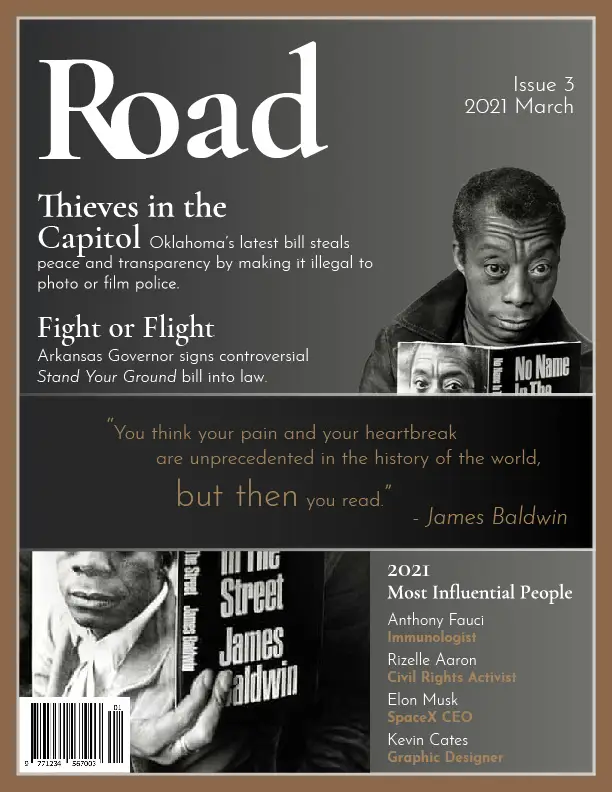
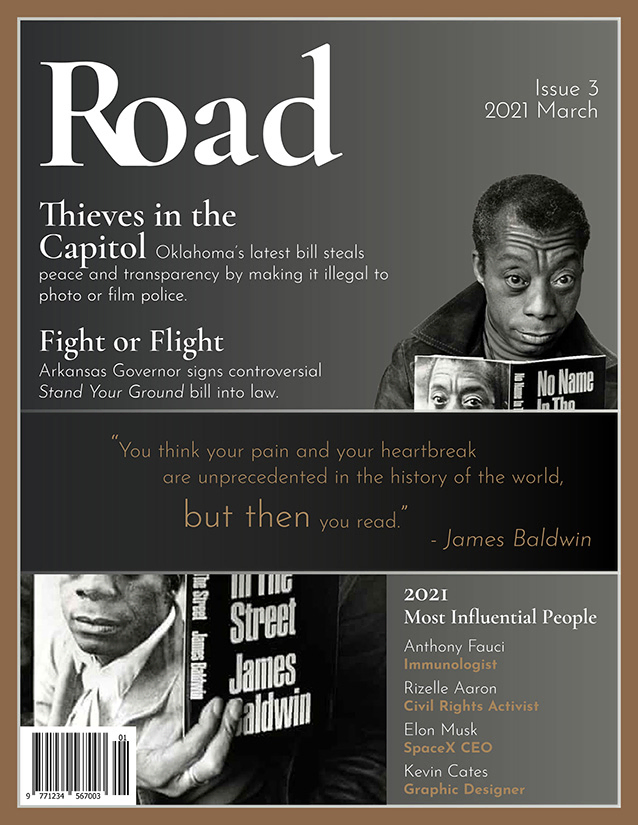
film & typography

diff --git a/film.html b/film.html
@@ -33,22 +33,19 @@
         Josephine Aaron Weathington
         </div>
     </header>
-    <div class="container-fluid">
-
-    </div>
 
     <div class="container film">
-
-      <div class="row feature">
-        <div class="embed-responsive embed-responsive-16by9">
-          <iframe class="embed-responsive-item youtube" src="https://www.youtube.com/embed/4Z8RX-mrl3I" title="YouTube video player" frameborder="0" allow="accelerometer; autoplay; clipboard-write; encrypted-media; gyroscope; picture-in-picture" allowfullscreen></iframe>      </div>
-    </div>
+        <div class="row feature">
+          <div class="embed-responsive embed-responsive-16by9">
+          <iframe class="embed-responsive-item youtube" src="https://www.youtube.com/embed/4Z8RX-mrl3I" title="YouTube video player" allow="accelerometer; autoplay; clipboard-write; encrypted-media; gyroscope; picture-in-picture" allowfullscreen></iframe>      
+          </div>
+        </div>
       <section class="info">
         <article class="article-1">
         <div class="row justify-content-between">
             <div class="col-md-6">
                 <h1>MEDIA PRODUCTION</h1>
-                <p>Ok, so hear me; I still may not be great at holding a camera, BUT I've gotten pretty good at developing a narrative. Here
+                <p>Ok, so hear me; I still may not be great at holding a camera, <b>but</b> I've gotten pretty good at developing a narrative. Here
                   are a few short films that I scripted, storyboared, edited, and filmed (with some help on the filming part) as projects for courses, Intro To Media Production (2020) & Non-Linear Video Editing (2022).</p>
                 <p><em>Kinship Legal Guardianship</em> is an informative film explaining the process to legal guardianship.</p>
                 <p><em>'Cause That's What I Do</em> is a feature film that tells a fictional story.</p>
@@ -62,20 +59,23 @@
     
 <!--VIDEO OF CAUSE THAT'S WHAT I DO-->
       <article class="article-2">
-      <div class="row feature">
-        <div class="col">
-          <div class="embed-responsive embed-responsive-16by9">
-            <iframe class="embed-responsive-item youtube" src="https://www.youtube.com/embed/6GWVHu-B-M0" title="YouTube video player" frameborder="0" allow="accelerometer; autoplay; clipboard-write; encrypted-media; gyroscope; picture-in-picture" allowfullscreen></iframe>          </div>
-        </div>
+        <div class="row">
+          <div class="col">
+            <div class="embed-responsive embed-responsive-16by9">
+              <iframe class="embed-responsive-item youtube" src="https://www.youtube.com/embed/6GWVHu-B-M0" title="YouTube video player" allow="accelerometer; autoplay; clipboard-write; encrypted-media; gyroscope; picture-in-picture" allowfullscreen></iframe>          
+            </div>
+          </div>
       </div>
       </article>
 <!--VIDEO OF CAN'T ESCAPE THE MISCHIEF-->
       <article class="article-3">
-      <div class="row feature">
-        <div class="col">
-          <div class="embed-responsive embed-responsive-16by9">
-            <iframe class="embed-responsive-item youtube" src="https://www.youtube.com/embed/HrDH4A2vrqs" title="YouTube video player" frameborder="0" allow="accelerometer; autoplay; clipboard-write; encrypted-media; gyroscope; picture-in-picture" allowfullscreen></iframe>        </div>
-      </div>
+        <div class="row">
+          <div class="col">
+            <div class="embed-responsive embed-responsive-16by9">
+              <iframe class="embed-responsive-item youtube" src="https://www.youtube.com/embed/HrDH4A2vrqs" title="YouTube video player" allow="accelerometer; autoplay; clipboard-write; encrypted-media; gyroscope; picture-in-picture" allowfullscreen></iframe>        
+            </div>
+          </div>
+        </div>
       </article>
   </section>
 <div class="credits">

diff --git a/typography.html b/typography.html
@@ -36,7 +36,9 @@
     <div class="container typography">
         <div class="row feature">
             <div class="col-12">
-                <img src="assets/images/menu-redesign.webp" alt="a menu of Sonny William's Steakhouse redesigned a creative way using typography principles">
+                <a href="assets/images/menu-redesign.webp">
+                    <img src="assets/images/menu-redesign.webp" alt="a menu of Sonny William's Steakhouse redesigned a creative way using typography principles">
+                </a>
             </div>
         </div>
 
@@ -77,17 +79,20 @@
                     </p>
                 </div>
                 <div class="col-8 col-md-5">
-                    <img src="assets/images/poster.webp" alt="poster raising awareness about a particular social issue, the Stand Your Ground law."> 
+                    <a href="assets/images/poster.webp"><img src="assets/images/poster.webp" alt="poster raising awareness about a particular social issue, the Stand Your Ground law."> 
+                    </a>
                 </div>
             </div>
             </article>
             <article class="article-4">
             <div class="row justify-content-between align-items-center">
                 <div class="col-md-7">
-                    <img src="assets/images/publication.webp" alt="a publication article for a fictional magazine called Road">
+                    <a href="assets/images/publication.webp"><img src="assets/images/publication.webp" alt="a publication article for a fictional magazine called Road">
+                    </a>
                 </div>
                 <div class="col-8 col-md-4">
-                    <img src="assets/images/magazine-cover.webp" alt="cover design for a fictional magazine called Road">
+                    <a href="assets/images/magazine-cover.webp"><img src="assets/images/magazine-cover.webp" alt="cover design for a fictional magazine called Road">
+                    </a>
                 </div>
             </div>
             </article>
